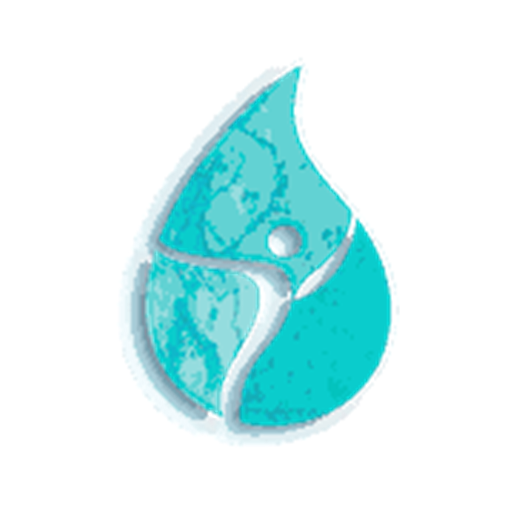
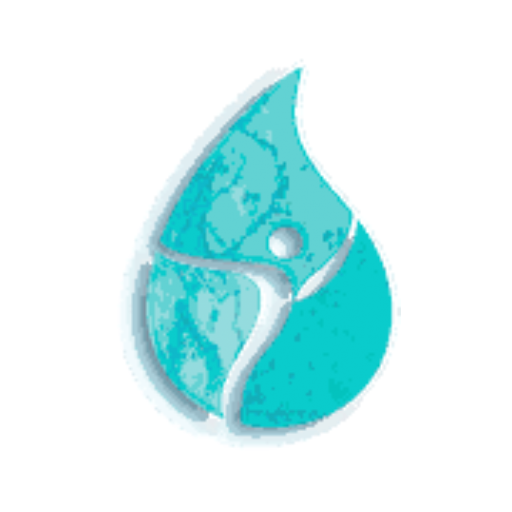
Íconos sin cuadro blanco

diff --git a/index.html b/index.html
@@ -5,7 +5,7 @@
 <script>(function(){var ev=null;function btn(){if(document.getElementById("ag-instalar"))return;var b=document.createElement("button");b.id="ag-instalar";b.textContent="📲 Instalar Aguamiel";b.style.cssText="position:fixed;right:12px;bottom:calc(14px + env(safe-area-inset-bottom));z-index:99995;border:0;border-radius:999px;padding:10px 16px;background:linear-gradient(135deg,#0d9bb5,#0a5a68);color:#fff;font:700 14px system-ui,sans-serif;box-shadow:0 6px 16px rgba(10,90,104,.35)";b.onclick=function(){if(!ev)return;ev.prompt();ev.userChoice.then(function(){ev=null;b.remove();});};document.body.appendChild(b);}window.addEventListener("beforeinstallprompt",function(e){e.preventDefault();ev=e;if(document.body)btn();else window.addEventListener("load",btn);});window.addEventListener("appinstalled",function(){var b=document.getElementById("ag-instalar");if(b)b.remove();});})();</script>
 <link rel="manifest" href="manifest.webmanifest"/>
 <meta name="theme-color" content="#0d9bb5"/>
-<link rel="apple-touch-icon" href="icono-192.png"/>
+<link rel="apple-touch-icon" href="icono-apple.png"/>
 
 <meta charset="UTF-8">
 <meta name="viewport" content="width=device-width, initial-scale=1">
